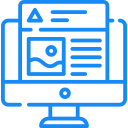
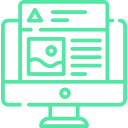
changed few

diff --git a/src/pageComponents/service/serviceList.tsx b/src/pageComponents/service/serviceList.tsx
@@ -33,7 +33,7 @@ const ServiceList = () => {
     <div className="layout layout-padding component-padding ">
       <div className="flex flex-col gap-[120px]">
         <GlobalComponentHeader
-          small_title="MY SERIVCE"
+          small_title="MY SERVICE"
           main_title=<div className="text-center">
             Crafting stories through<br></br>
             design and innovation

diff --git a/src/styles/globals.css b/src/styles/globals.css
@@ -3,8 +3,7 @@
 @tailwind utilities;
 
 :root {
-  /* --primary-color:#55E6A5; */
-  --primary-color:#168AF7;
+  --primary-color:#55E6A5;
 
   --white-shade:#A2A2A2;
   --black-color:#02050A;
